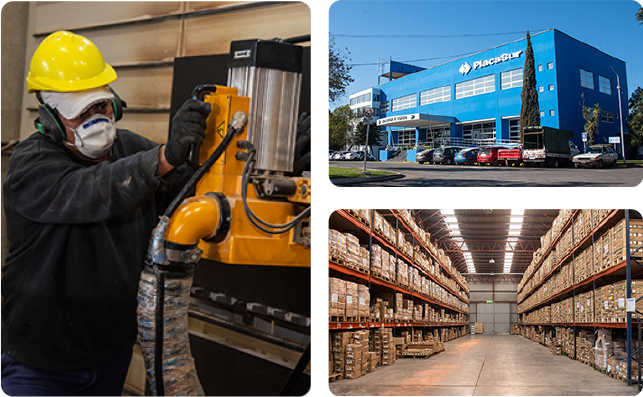
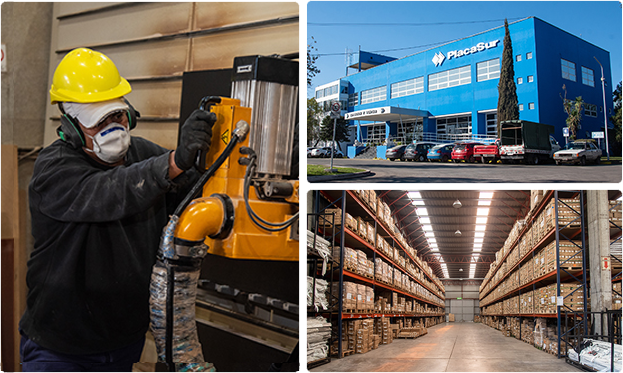
se modifca la home el carousel, y el enca el nav

diff --git a/resources/views/home.blade.php b/resources/views/home.blade.php
@@ -9,26 +9,25 @@
       @foreach ($slides as $key => $slide)
         <div class="carousel-item {{ $key === 0 ? 'active' : '' }}">
           <img src="{{ asset('storage/galerias/' . $slide->imagen) }}" class="d-block w-100" alt="{{ $slide->galeria }}">
-          <div
-            class="carousel-caption d-none d-md-block pt-2 pe-3 ps-3 pb-0 bg-primary text-start col-md-7 bg-opacity-75 shadow">
-            <p class="lead mb-0">Lo que necesites para tus proyectos</p>
-            <p class="h2 mt-0"><strong>Lo encontrás acá</strong></p>
+          <div class="carousel-caption d-none d-md-block ms-3 pb-0">
+            <div class="col-md-6 text-start float-end py-2 pe-3 ps-3 bg-primary bg-opacity-75 shadow">
+                <p class="lead mb-0">Lo que necesites para tus proyectos</p>
+                <p class="h2 mt-0"><strong>Lo encontrás acá</strong></p>
+            </div>
           </div>
         </div>
       @endforeach
-
-
     </div>
-    <button class="carousel-control-prev ps-3" type="button" data-bs-target="#carouselExampleControls"
+    <button class="carousel-control-prev" type="button" data-bs-target="#carouselExampleControls"
       data-bs-slide="prev">
       <!-- <span class="carousel-control-prev-icon" aria-hidden="true"></span> -->
-      <img src="{{ asset('img/slider/anterior.png') }}" class="ms-2 d-none d-lg-block d-sm-none">
+      <img src="{{ asset('img/slider/anterior.png') }}" class="ms-n1 w-25 carousel-item-prev">
       <span class="visually-hidden">Previous</span>
     </button>
-    <button class="carousel-control-next pe-3" type="button" data-bs-target="#carouselExampleControls"
+    <button class="carousel-control-next" type="button" data-bs-target="#carouselExampleControls"
       data-bs-slide="next">
       <!-- <span class="carousel-control-next-icon" aria-hidden="true"></span> -->
-      <img src="{{ asset('img/slider/siguiente.png') }}" class="me-2 d-none d-lg-block d-sm-none">
+      <img src="{{ asset('img/slider/siguiente.png') }}" class="me-n1 w-25 carousel-item-next">
       <span class="visually-hidden">Next</span>
     </button>
   </div>

diff --git a/resources/views/layouts/partials/header.blade.php b/resources/views/layouts/partials/header.blade.php
@@ -1,7 +1,10 @@
+
+<!-- imagen enca top -->
+<img src="imagenes/enca.jpg" alt="Placa Sur" class="d-none d-lg-block d-sm-none">
 <!-- NAV / menú -->
 <header class="sticky-md-top border-top border-5 border-primary">
   <nav class="container-fluid navbar navbar-expand-lg bg-white py-0 menutop shadow">
-    <div class="container-md">
+    <div class="container-md">              
       <a class="navbar-brand col-6 col-md-3 col-lg-3" href="{{ route('home') }}" title="Inicio Placa Sur">
         <!-- logo -->
         <img src="{{ asset('img/placasur.png') }}" alt=" Placa Sur" class="img-fluid float-left">
@@ -59,10 +62,9 @@
           </li>
         </ul>
       </div>
-      </li>
-
+      <!-- </li>
       </ul>
-    </div>
+    </div> -->
     </div>
   </nav>
 </header>
